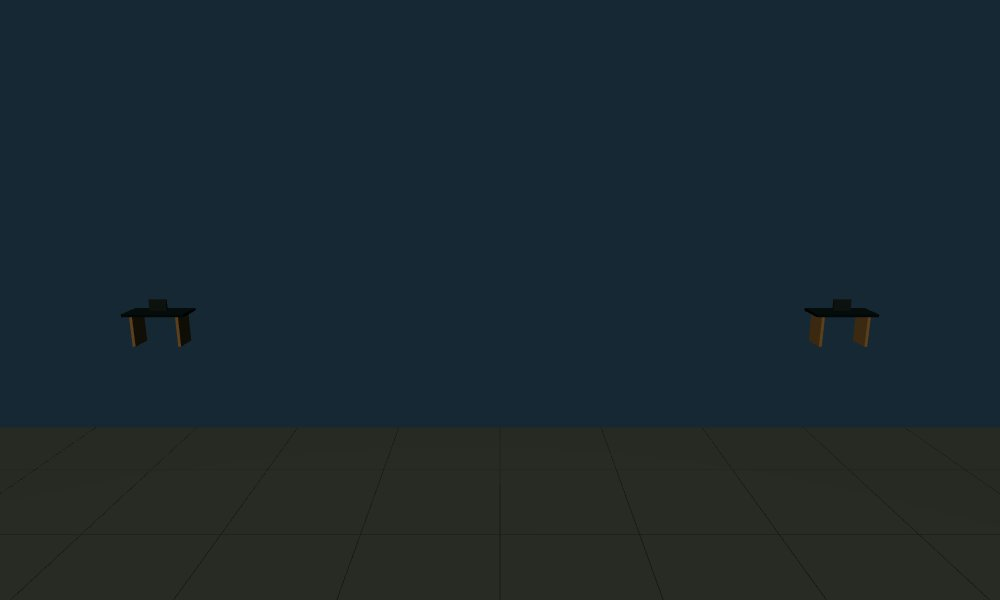
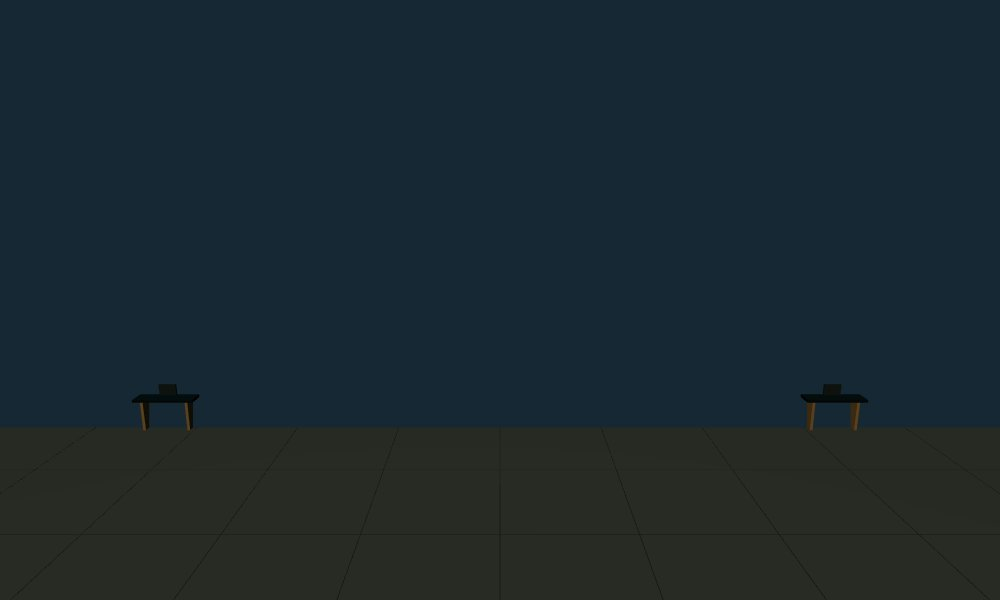
Add orthographic board, car pawns, desk rooks and compact action layout

diff --git a/chess/src/main.js b/chess/src/main.js
@@ -12,18 +12,19 @@ let reduced=reducedPreference?reducedPreference==='reduced':matchMedia('(prefers
 let ai=new Worker(new URL('./ai.worker.js',import.meta.url),{type:'module'});
 document.querySelector('#app').innerHTML=`
 <header class="header"><a class="brand" href="./"><span class="brand-icon">D<span>♟</span></span><span>DEALERSHIP<span class="brand-sub">C H E S S &nbsp; C L U B</span></span></a><span class="edition">THE SHOWROOM EDITION <span class="pill">PROTOTYPE</span></span><button id="settings" class="icon-button" aria-label="Open settings">⚙</button></header>
-<main><div class="intro"><div><span class="eyebrow">A DIFFERENT KIND OF NEGOTIATION</span><h1>Take the floor.</h1><p>Every move is a deal. Protect your General Manager.</p></div><div class="mode-switch" aria-label="Game mode"><button id="local" title="Local two-player">Two desks <small>2 players</small></button><button id="house" title="Play the computer">Play the house <small>vs computer</small></button></div></div>
-<div class="layout"><section class="game-panel" aria-label="Chess game"><div class="player-strip"><span class="avatar blue">C</span><div><strong>Cobalt team</strong><span id="opponent-label">Across the desk</span></div><span id="blue-tag" class="turn-tag">WAITING</span><span class="score" id="blue-captured"></span></div>
+<main><div class="intro"><div><span class="eyebrow">A DIFFERENT KIND OF NEGOTIATION</span><h1>Take the floor.</h1><p>Every move is a deal. Protect your General Manager.</p></div></div>
+<div class="layout"><section class="game-panel" aria-label="Chess game"><section class="status-card"><span class="eyebrow">LOT OPEN</span><h2 id="status" aria-live="polite"></h2><p id="hint">Select a piece to see its legal moves.</p><div class="status-footer"><span class="live-dot"></span> STANDARD CHESS RULES</div></section><div class="player-strip"><span class="avatar blue">C</span><div><strong>Cobalt team</strong><span id="opponent-label">Across the desk</span></div><span id="blue-tag" class="turn-tag">WAITING</span><span class="score" id="blue-captured"></span></div>
 <div class="stage"><div id="board3d"></div><div id="board2d" hidden aria-label="Chessboard"></div><div class="board-corner"><span class="tiny-dot"></span><span id="view-label">3D SHOWROOM</span></div><button id="view" class="view-button">2D board</button></div>
 <div class="player-strip bottom"><span class="avatar red">C</span><div><strong>Crimson team</strong><span>Your side of the showroom</span></div><span id="red-tag" class="turn-tag">ON THE FLOOR</span><span class="score" id="red-captured"></span></div>
-<div class="board-toolbar"><button id="undo">↶ <span>Take back</span></button><button id="flip">⇅ <span>Turn the lot</span></button><button id="new">＋ <span>Fresh deal</span></button><button id="sound" aria-pressed="true">♫ <span>Sound on</span></button></div></section>
-<aside><section class="status-card"><span class="eyebrow">LOT OPEN</span><h2 id="status" aria-live="polite"></h2><p id="hint">Select a piece to see its legal moves.</p><div class="status-footer"><span class="live-dot"></span> STANDARD CHESS RULES</div></section>
-<section class="log-card"><div class="card-heading"><h3>Negotiation</h3><span id="move-count">0 MOVES</span></div><div class="log-labels"><span>#</span><span>CRIMSON</span><span>COBALT</span></div><div id="log" aria-label="Move history"></div><button id="export" class="text-button">Export game ↗</button></section>
-<section class="legend-card"><h3>Meet your team</h3><div class="legend">${[['k','GM','King'],['q','Closer','Queen'],['b','Finance','Bishop'],['n','Service','Knight'],['r','Showroom','Rook'],['p','Sales','Pawn']].map(([p,n,r])=>`<div><span class="piece-icon"><img src="/figures/w${p}.png" alt=""></span><span><strong>${n}</strong><small>${r}</small></span></div>`).join('')}</div></section></aside></div>
+</section>
+<aside><section class="action-desk"><h3>Action Desk</h3><div class="mode-switch" aria-label="Game mode"><button id="local" title="Local two-player">Two desks <small>2 players</small></button><button id="house" title="Play the computer">Play the house <small>vs computer</small></button></div><div class="board-toolbar"><button id="undo">↶ <span>Take back</span></button><button id="flip">⇅ <span>Turn the lot</span></button><button id="new">＋ <span>Fresh deal</span></button><button id="sound" aria-pressed="true">♫ <span>Sound on</span></button></div></section>
+<details class="log-card" open><summary>Negotiation Log</summary><div class="card-heading"><h3>Negotiation Log</h3><span id="move-count">0 MOVES</span></div><div class="log-labels"><span>#</span><span>CRIMSON</span><span>COBALT</span></div><div id="log" aria-label="Move history"></div><button id="export" class="text-button">Export game ↗</button></details>
+<section class="legend-card"><h3>Meet your team</h3><div class="legend">${[['k','GM','King'],['q','Closer','Queen'],['b','Finance','Bishop'],['n','Service','Knight'],['r','GM Desk','Rook'],['p','Car','Pawn']].map(([p,n,r])=>`<div><span class="piece-icon"><img src="/figures/w${p}.png" alt=""></span><span><strong>${n}</strong><small>${r}</small></span></div>`).join('')}</div></section></aside></div>
 <footer>BUILT FOR THE FLOOR. PLAYED BY THE RULES.<span>Local save · No account needed</span></footer></main>
 <dialog id="settings-dialog"><div class="dialog-header"><h2>Your showroom</h2><button id="close-settings" aria-label="Close settings">×</button></div><label class="setting">Sound effects<input id="sound-setting" type="checkbox"></label><label class="setting">Reduced motion<input id="motion-setting" type="checkbox"></label><p>Original synthesized sound effects. Reduced motion makes moves and board rotation instant.</p><p>Play the house uses a basic, unrated computer opponent. Your game is saved on this browser.</p></dialog>
 <dialog id="new-dialog"><h2>Start a fresh deal?</h2><p>Your current game will be replaced. Export it first if you want to keep a copy.</p><div class="dialog-actions"><button id="cancel-new">Keep playing</button><button id="confirm-new" class="primary">Fresh deal</button></div></dialog>
-<dialog id="promotion"><h2>Promote your salesperson</h2><p>Choose a new role.</p><div class="promotion-options">${['q','r','b','n'].map(p=>`<button data-promote="${p}"><span>${symbols[p]}</span>${roles[p]}</button>`).join('')}</div></dialog>`;
+<dialog id="promotion"><h2>Promote your car</h2><p>Choose a new role.</p><div class="promotion-options">${['q','r','b','n'].map(p=>`<button data-promote="${p}"><span>${symbols[p]}</span>${roles[p]}</button>`).join('')}</div></dialog>`;
+if(matchMedia('(max-width:760px)').matches)document.querySelector('.log-card').open=false;
 let fallbackReason='';
 try{board=new Board($('board3d'),select);board.reduced=reduced;}catch{is2D=true;fallbackReason='3D is unavailable on this device. The 2D board is ready.';$('view').disabled=true;$('board3d').hidden=true;$('board2d').hidden=false;$('view-label').textContent='2D SHOWROOM';$('view').textContent='2D board';}
 function save(){storage.set('dealership-chess:pgn',game.chess.pgn());storage.set('dealership-chess:mode',mode);}
@@ -41,6 +42,7 @@ function refresh(){
   $('local').setAttribute('aria-pressed',String(mode==='local'));$('house').setAttribute('aria-pressed',String(mode==='house'));
   $('move-count').textContent=`${moves.length} ${moves.length===1?'PLY':'PLIES'}`;
   $('log').innerHTML=moves.length?Array.from({length:Math.ceil(moves.length/2)},(_,i)=>`<div class="log-row"><span>${i+1}.</span><strong>${moves[i*2]}</strong><strong>${moves[i*2+1]||'—'}</strong></div>`).join(''):'<div class="empty-log"><span>♙</span>The first move is yours.<small>Your deals will appear here.</small></div>';
+  const latest=c.history({verbose:true}).at(-1);if(latest)$('log').insertAdjacentHTML('beforeend',`<p class="deal-description">${roles[latest.piece]} ${latest.captured?'captures on':'moves to'} ${latest.to}${latest.promotion?' · promoted to '+roles[latest.promotion]:''}.</p>`);
   $('log').scrollTop=$('log').scrollHeight;
   const history=c.history({verbose:true});for(const color of ['w','b'])$(color==='w'?'red-captured':'blue-captured').textContent=history.filter(m=>m.color===color&&m.captured).map(m=>symbols[m.captured]).join('');
   $('undo').disabled=busy||!history.length; $('new').disabled=busy;$('local').disabled=busy;$('house').disabled=busy;

diff --git a/chess/src/board.js b/chess/src/board.js
@@ -8,7 +8,7 @@ export class Board {
   constructor(container,onSquare){
     this.container=container;this.onSquare=onSquare;this.pieces=new Map();this.tiles=[];this.animations=[];this.angle=0;this.targetAngle=0;this.reduced=false;
     this.scene=new T.Scene();this.scene.background=new T.Color('#172129');
-    this.camera=new T.PerspectiveCamera(36,1,.1,80);
+    this.camera=new T.OrthographicCamera(-6,6,6,-6,.1,80);
     this.renderer=new T.WebGLRenderer({antialias:true,alpha:false});this.renderer.setPixelRatio(Math.min(devicePixelRatio,1.6));this.renderer.shadowMap.enabled=true;this.renderer.shadowMap.type=T.PCFShadowMap;this.renderer.outputColorSpace=T.SRGBColorSpace;this.renderer.toneMapping=T.ACESFilmicToneMapping;this.renderer.toneMappingExposure=1;this.renderer.setClearColor(0x172129);container.append(this.renderer.domElement);
     const environment=new RoomEnvironment();const pmrem=new T.PMREMGenerator(this.renderer);this.environmentTarget=pmrem.fromScene(environment,.06);this.scene.environment=this.environmentTarget.texture;this.scene.environmentIntensity=.38;environment.dispose();pmrem.dispose();
     this.scene.add(new T.HemisphereLight(0xcbddeb,0x443425,.8));
@@ -42,11 +42,11 @@ export class Board {
     return new Promise(resolve=>this.animations.push({start:performance.now(),duration:move.piece==='n'?420:320,jobs,captured,resolve}));
   }
   flip(){this.targetAngle+=Math.PI;}
-  resize(){const w=this.container.clientWidth,h=this.container.clientHeight;if(!w||!h)return;this.camera.aspect=w/h;this.camera.zoom=w/h<1?.95:1.2;this.camera.updateProjectionMatrix();this.renderer.setSize(w,h);}
+  resize(){const w=this.container.clientWidth,h=this.container.clientHeight;if(!w||!h)return;this.camera.aspect=w/h;const span=Math.max(10.8,11.8/this.camera.aspect);this.camera.zoom=1.22;this.camera.left=-span*this.camera.aspect/2;this.camera.right=span*this.camera.aspect/2;this.camera.top=span/2;this.camera.bottom=-span/2;this.camera.updateProjectionMatrix();this.renderer.setSize(w,h);}
   frame(t){
     if(document.hidden)return;
     this.angle=this.reduced?this.targetAngle:this.angle+(this.targetAngle-this.angle)*.1;
-    const portrait=this.camera.aspect<1, radius=portrait?19:16;this.camera.position.set(Math.sin(this.angle)*radius,portrait?13:11,Math.cos(this.angle)*radius);this.camera.lookAt(0,0,0);
+    const radius=14;this.camera.position.set(Math.sin(this.angle)*radius,18,Math.cos(this.angle)*radius);this.camera.lookAt(0,0,0);
     this.animations=this.animations.filter(a=>{const p=Math.min(1,(t-a.start)/a.duration),ease=p*p*(3-2*p);for(const j of a.jobs){j.model.position.lerpVectors(j.from,j.to,ease);j.model.position.y+=Math.sin(p*Math.PI)*j.hop;}if(a.captured)a.captured.scale.setScalar(Math.max(.001,1-p));if(p===1){a.resolve();return false;}return true;});
     this.renderer.render(this.scene,this.camera);
   }

diff --git a/chess/src/style.css b/chess/src/style.css
@@ -9,3 +9,14 @@
 .square>span{width:100%;height:100%;display:grid;place-items:center;position:absolute;inset:0}
 .square img{width:112%;height:112%;object-fit:contain;pointer-events:none;filter:drop-shadow(0 2px 1px #0005)}
 .square small{z-index:2}.piece-icon{width:29px;height:34px}.piece-icon img{width:39px;height:39px;object-fit:contain;margin-left:-5px}.board-corner{color:#dde0d7;text-shadow:0 1px 3px #000}.tiny-dot{background:#c2ad7f}.view-button{background:#f0e6d5e6}
+
+/* Orthographic play surface and compact dealership controls. */
+.layout{grid-template-columns:minmax(0,1fr)}
+.status-card{background:#f7f4eb;color:#1c2a32;border-radius:0;min-height:0;padding:15px 22px;display:grid;grid-template-columns:auto 1fr;column-gap:22px;align-items:center}
+.status-card .eyebrow{color:#637568}.status-card h2{font-size:20px;margin:0}.status-card p{grid-column:2;min-height:0;color:#63716d}.status-footer{display:none}
+.stage{height:560px}.player-strip{height:50px}.intro{margin-bottom:20px}
+aside{display:grid;grid-template-columns:minmax(0,1fr) 320px;gap:18px;align-items:start}
+.action-desk{grid-column:2;grid-row:1;padding:19px;background:#f7f4ebd9;border-radius:10px}.action-desk .mode-switch{background:none;padding:0;margin:12px 0 0}.action-desk .mode-switch button{min-width:0;flex:1;padding:12px 6px}.action-desk .mode-switch .active{background:#e4e7dd;box-shadow:none}
+.action-desk .board-toolbar{display:grid;grid-template-columns:1fr 1fr;padding:4px 0;gap:4px}.action-desk .board-toolbar button{justify-content:center;min-height:44px}.action-desk #new{grid-column:1;grid-row:1}.action-desk #flip{grid-column:2;grid-row:1}
+.log-card{grid-column:1;grid-row:1;background:#f7f4ebd9}.log-card summary{font-weight:700;font-size:13px;cursor:pointer;min-height:26px}.log-card h3{display:none}.log-labels{margin-top:0}#log{height:110px;font-family:ui-monospace,monospace}.deal-description{font-size:11px;padding:8px;color:#54655d}.legend-card{grid-column:1/-1}.legend{grid-template-columns:repeat(6,1fr);margin-top:12px}
+@media(max-width:760px){.stage{height:420px}.status-card{padding:13px 15px;column-gap:12px}.status-card h2{font-size:17px}.status-card p{font-size:10px}aside{display:flex;flex-direction:column;gap:12px}aside> *{width:100%}.action-desk{order:0}.log-card{order:1}.legend-card{order:2}.legend{grid-template-columns:repeat(3,1fr)}.action-desk .mode-switch{margin-top:8px}.stage #board2d{margin-top:24px}.intro p{max-width:300px}}

diff --git a/chess/src/figures.js b/chess/src/figures.js
@@ -15,15 +15,23 @@ export function figurine(piece){
  const limb=(a,b,r=.048,mat=resin)=>{const start=new T.Vector3(...a),end=new T.Vector3(...b),d=end.clone().sub(start);const m=add(new T.CylinderGeometry(r,r*1.15,d.length(),12),...start.clone().add(end).multiplyScalar(.5).toArray(),mat);m.quaternion.setFromUnitVectors(new T.Vector3(0,1,0),d.normalize());return m;};
  // Turned plinth, metal reveal, and small role emblem.
  cyl(.355,.37,.10,0,.07,0,shade);cyl(.351,.351,.024,0,.132,0,brass);cyl(.31,.345,.08,0,.181,0);cyl(.29,.31,.035,0,.237,0);
- if(piece.type==='r'){
-  box(.58,.62,.50,0,.565,0);box(.68,.075,.6,0,.91,0);box(.64,.03,.57,0,.958,0,brass);
-  const glass=new T.MeshStandardMaterial({color:piece.color==='w'?0x34242c:0x182c44,roughness:.15,metalness:.6});
-  for(const x of [-.19,0,.19])box(.167,.4,.02,x,.54,.258,glass);
-  for(const z of [-.15,.05])box(.016,.4,.17,.296,.54,z,glass);
-  for(const x of [-.285,-.095,.095,.285])box(.018,.43,.034,x,.54,.277,brass);
-  box(.59,.025,.032,0,.34,.278,brass);box(.60,.10,.02,0,.817,.27,shade);
-  // Miniature car in the showroom window.
-  const display=car(color);display.scale.setScalar(.19);display.rotation.y=Math.PI/2;display.position.set(0,.305,.26);g.add(display);
+ if(piece.type==='p'){
+  const vehicle=car(color);vehicle.scale.setScalar(.32);vehicle.position.y=.255;vehicle.rotation.y=Math.PI;g.add(vehicle);
+ }else if(piece.type==='r'){
+  // A miniature executive desk, with drawers, monitor, papers and phone.
+  box(.69,.065,.49,0,.70,0,shade);box(.71,.018,.51,0,.74,0,brass);
+  for(const x of [-.245,.245]){
+   box(.17,.43,.38,x,.47,0);
+   for(const y of [.36,.49,.62]){box(.15,.008,.014,x,y,.197,shade);box(.065,.012,.022,x,y+.04,.209,brass);}
+  }
+  box(.04,.16,.04,0,.83,-.12,brass);box(.15,.022,.11,0,.765,-.12,shade);
+  box(.29,.20,.035,0,.95,-.12,shade);
+  const screen=new T.MeshStandardMaterial({color:0x537f86,emissive:0x305866,emissiveIntensity:.5,roughness:.25});
+  box(.255,.165,.008,0,.95,-.096,screen);
+  for(let i=0;i<3;i++)box(.16-i*.035,.008,.005,-.025,.98-i*.035,-.09,brass);
+  box(.20,.017,.08,0,.777,.07,shade);
+  for(let i=0;i<3;i++)box(.13,.009,.16,-.235,.765+i*.011,.06,highlight);
+  box(.115,.045,.10,.24,.785,.04,shade);box(.14,.028,.045,.24,.822,.04,brass);
  }else{
   const scale={p:.70,n:.85,b:.91,q:1.02,k:1.13}[piece.type];
   const Y=y=>.255+y*scale;

diff --git a/chess/tests/ui.spec.js b/chess/tests/ui.spec.js
@@ -17,8 +17,8 @@ test('computer responds, reset is confirmed, mobile fits',async({page})=>{
 test('3D picking, animation and rotation produce no runtime errors',async({page})=>{
  const errors=[];page.on('pageerror',e=>errors.push(e.message));await page.goto('/');
  // Project known board squares through the same initial camera geometry.
- const canvas=page.locator('canvas');const rect=await canvas.boundingBox();
- const project=(file,rank,y)=>{const aspect=rect.width/rect.height, z=4.5-rank,x=file-3.5,cy=aspect<1?13:11,cz=aspect<1?19:16,len=Math.hypot(cy,cz),sy=cy/len,sz=cz/len;const depth=len-sy*y-sz*z,yy=sz*y-sy*z,scale=(aspect<1?.95:1.2)/Math.tan(18*Math.PI/180);return{x:rect.x+rect.width*(1+x*scale/(depth*aspect))/2,y:rect.y+rect.height*(1-yy*scale/depth)/2}};
+ const canvas=page.locator('canvas');await canvas.scrollIntoViewIfNeeded();const rect=await canvas.boundingBox();
+ const project=(file,rank,y)=>{const aspect=rect.width/rect.height,z=4.5-rank,x=file-3.5,len=Math.hypot(18,14),sy=18/len,sz=14/len,span=Math.max(10.8,11.8/aspect),scale=2*1.22/span;return{x:rect.x+rect.width*(1+x*scale/aspect)/2,y:rect.y+rect.height*(1-(sz*y-sy*z)*scale)/2}};
  await page.mouse.click(...Object.values(project(6,1,.65)));await expect(page.locator('#hint')).toContainText('Service Technician');
  await page.mouse.click(...Object.values(project(5,3,.16)));await expect(page.locator('#status')).toHaveText('Cobalt has the floor.');
  await expect(page.locator('#undo')).toBeEnabled();await page.locator('#flip').click();await expect(page.locator('#log')).toContainText('Nf3');await page.waitForTimeout(500);expect(errors).toEqual([]);

diff --git a/chess/src/game.js b/chess/src/game.js
@@ -1,5 +1,5 @@
 import { Chess } from 'chess.js';
-export const roles = {k:'General Manager',q:'Closer',b:'Finance Manager',n:'Service Technician',r:'Showroom',p:'Salesperson'};
+export const roles = {k:'General Manager',q:'Closer',b:'Finance Manager',n:'Service Technician',r:'GM Desk',p:'Car'};
 export const symbols = {k:'♚',q:'♛',b:'♝',n:'♞',r:'♜',p:'♟'};
 export class Game {
   constructor(pgn='') { this.chess=new Chess(); if(pgn) this.chess.loadPgn(pgn); }

diff --git a/chess/README.md b/chess/README.md
@@ -67,3 +67,6 @@ The 2D fallback uses transparent images rendered from these same figure models a
 Static figure parts and room geometry are batched by material to reduce draw calls. Four browser scenarios were checked (desktop, mobile/computer, 3D picking/animation, and WebGL-unavailable fallback); the 3D scenario was rerun successfully after batching. The production build passes, with a graphics-bundle size advisory (about 166 KB gzip). Real-device frame rate and audible sound quality remain to be checked.
 
 Preview: https://dealership-chess-preview.onrender.com/ (Render service `dealership-chess-preview`, feature branch, manual deployments).
+
+### Orthographic dealership update
+The camera fits the eight-unit board responsively with orthographic projection. Car pawns and executive desk rooks replace the previous models; regenerated sprites keep 2D consistent. The cream status banner sits above play, with Action Desk and a collapsible Negotiation Log below. Standard SAN and PGN remain intact. “Two desks” still means local two-player chess, not a split-pawn variant. Elaborate capture sequences and external audio clips remain proposed work.
